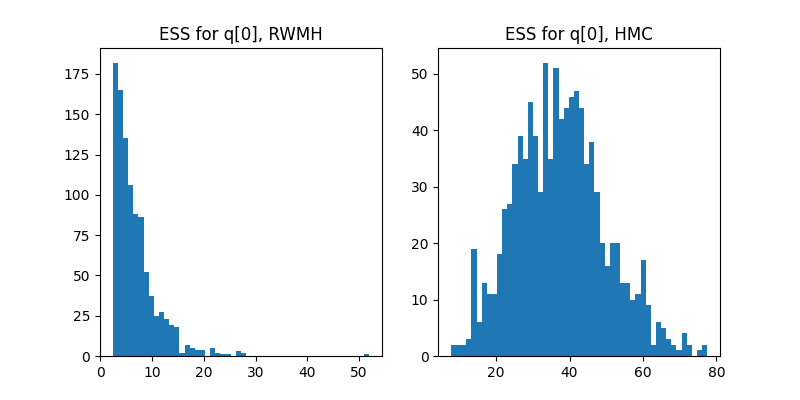
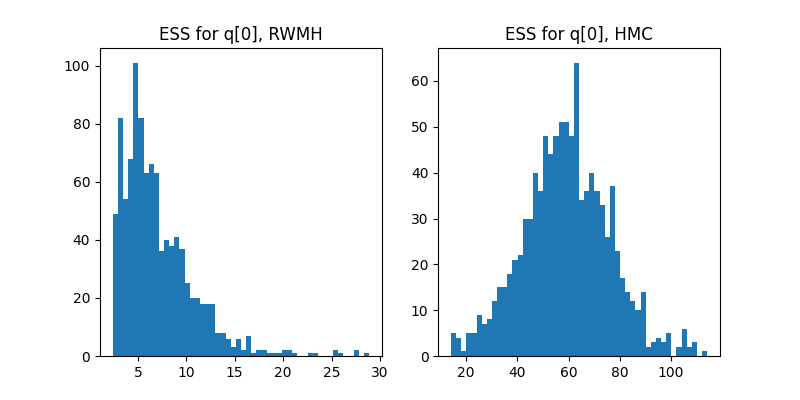
Added basic readme and corrected files

diff --git a/src/graphs_density.py b/src/graphs_density.py
@@ -114,12 +114,12 @@ def main(alpha, q0, N, n, eps, m, T, sigma, B, plot, q0_type="Dirac", offset=Fal
 
 if __name__=="__main__":
 
-    alpha = 10**3
+    alpha = 10**1
     q0 = [0, 0]
-    q0_type = "Dirac" # Dirac or Normal
-    offset = False #Offset of q0 [0.5, 0.5]
+    q0_type = "Dirac"
+    offset = False 
 
-    N = 200 #length of the chain
+    N = 100 #length of the chain
     n = 1000 #number of chains simulated
     
     eps = 0.01
@@ -128,7 +128,7 @@ if __name__=="__main__":
     
     sigma = 0.1
     
-    B = 80
+    B = 20
     
     plot=["Density_all", "Density_end", "HMC"]
     main(alpha, q0, N, n, eps, m, T, sigma, B, plot, q0_type="Dirac", offset=False)
@@ -163,6 +163,22 @@ if __name__=="__main__":
     main(alpha, q0, N, n, eps, m, T, sigma, B, plot, q0_type="Dirac", offset=False)
     
     sigma=0.02
+    main(alpha, q0, N, n, eps, m, T, sigma, B, plot, q0_type="Dirac", offset=False)
+
+    alpha=10**3
+    
+    N = 200 #length of the chain
+    n = 1000 #number of chains simulated
+    
+    eps = 0.01
+    m = [1, 1]
+    T = 0.1
+    
+    sigma = 0.1
+
+    plot=["Density_all", "Density_end"]
+    
+    B = 80
     main(alpha, q0, N, n, eps, m, T, sigma, B, plot, q0_type="Dirac", offset=False)
 
 

diff --git a/src/d_short.py b/src/d_short.py
@@ -105,7 +105,6 @@ def get_M(autocov): # Last element of the chain used to calculate sigma^2_mcmc
     return M1, M2
 
 def get_sigma(autocov): # Time-average variance constant of a Markov chain, calculated from its autocovariance
-    # Calculate the
     [M1, M2] = get_M(autocov)
     id1 = range(1, M1)
     S1 = autocov[0, 0] + 2*np.sum(autocov[id1, 0])

diff --git a/src/graphs_autocorrelation_single.py b/src/graphs_autocorrelation_single.py
@@ -7,7 +7,7 @@ def main():
     alpha = 10**3
     q0 = [0, 0]
 
-    N = 200 #length of the chain
+    N = 300 #length of the chain
     n = 1000 #number of chains simulated
     
     eps = 0.01
@@ -16,7 +16,7 @@ def main():
     
     sigma = 0.1
     
-    B = 80
+    B = 100
     
     final_q = np.zeros([n, 2])
     final_q_ham = np.zeros([n, 2])

diff --git a/README.md b/README.md
@@ -1,1 +1,36 @@
-# Hamiltonian_Monte_Carlo
+# Hamiltonian Monte Carlo.
+
+Implementation and application of an Hamiltonian Monte Carlo method to sample from unnormalized distribution.
+
+Team members: Maxence Hofer, Giacomo Mossinelli
+
+
+
+# Overview
+
+`figure/` - folder containing all figures produced
+
+`src/` - scripts for every simulation
+
+
+### Code
+
+- `d.py` - functions used in point d)
+
+- `graph_density.py` - produce the density graphs.
+
+- `graphs_autocorrelation_single.py` - produce the average and variance, autocovariance, autocorrelation and distribution of effective sample size
+
+- `ess_single.py` - produce the effective sample size for the number of evaluation of f and df/dq
+
+- `e_new_new.py` - functions used in point e)
+
+- `ess_e.py` - produce the effective sample size graph for point e)
+
+- `convergence_analysis.py` - produce the comparison graphs between HMC and 1MH for point f)
+
+
+
+# Environment
+
+We use `Python 3.10.9`, `NumPy`, `scipy.stats` and `matplotlib.pyplot`.
